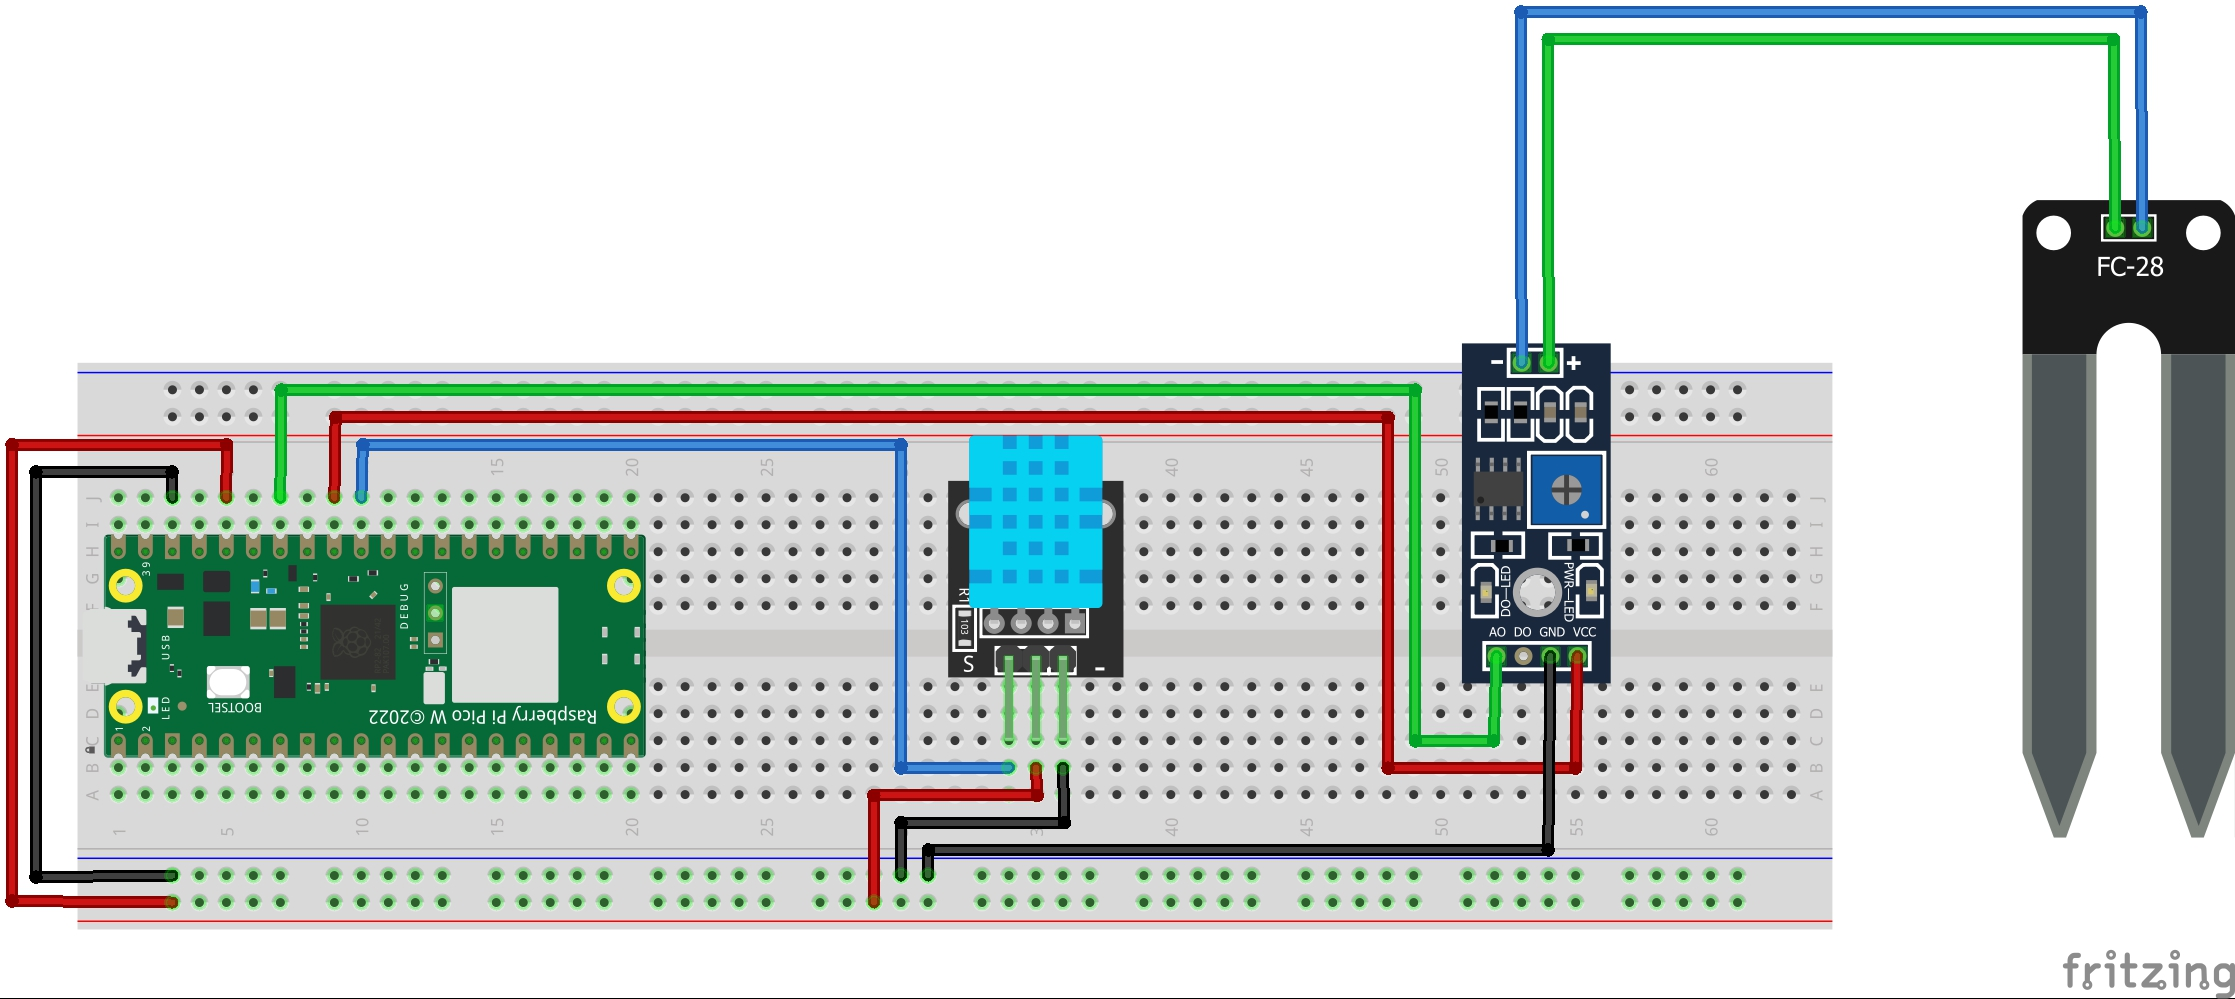
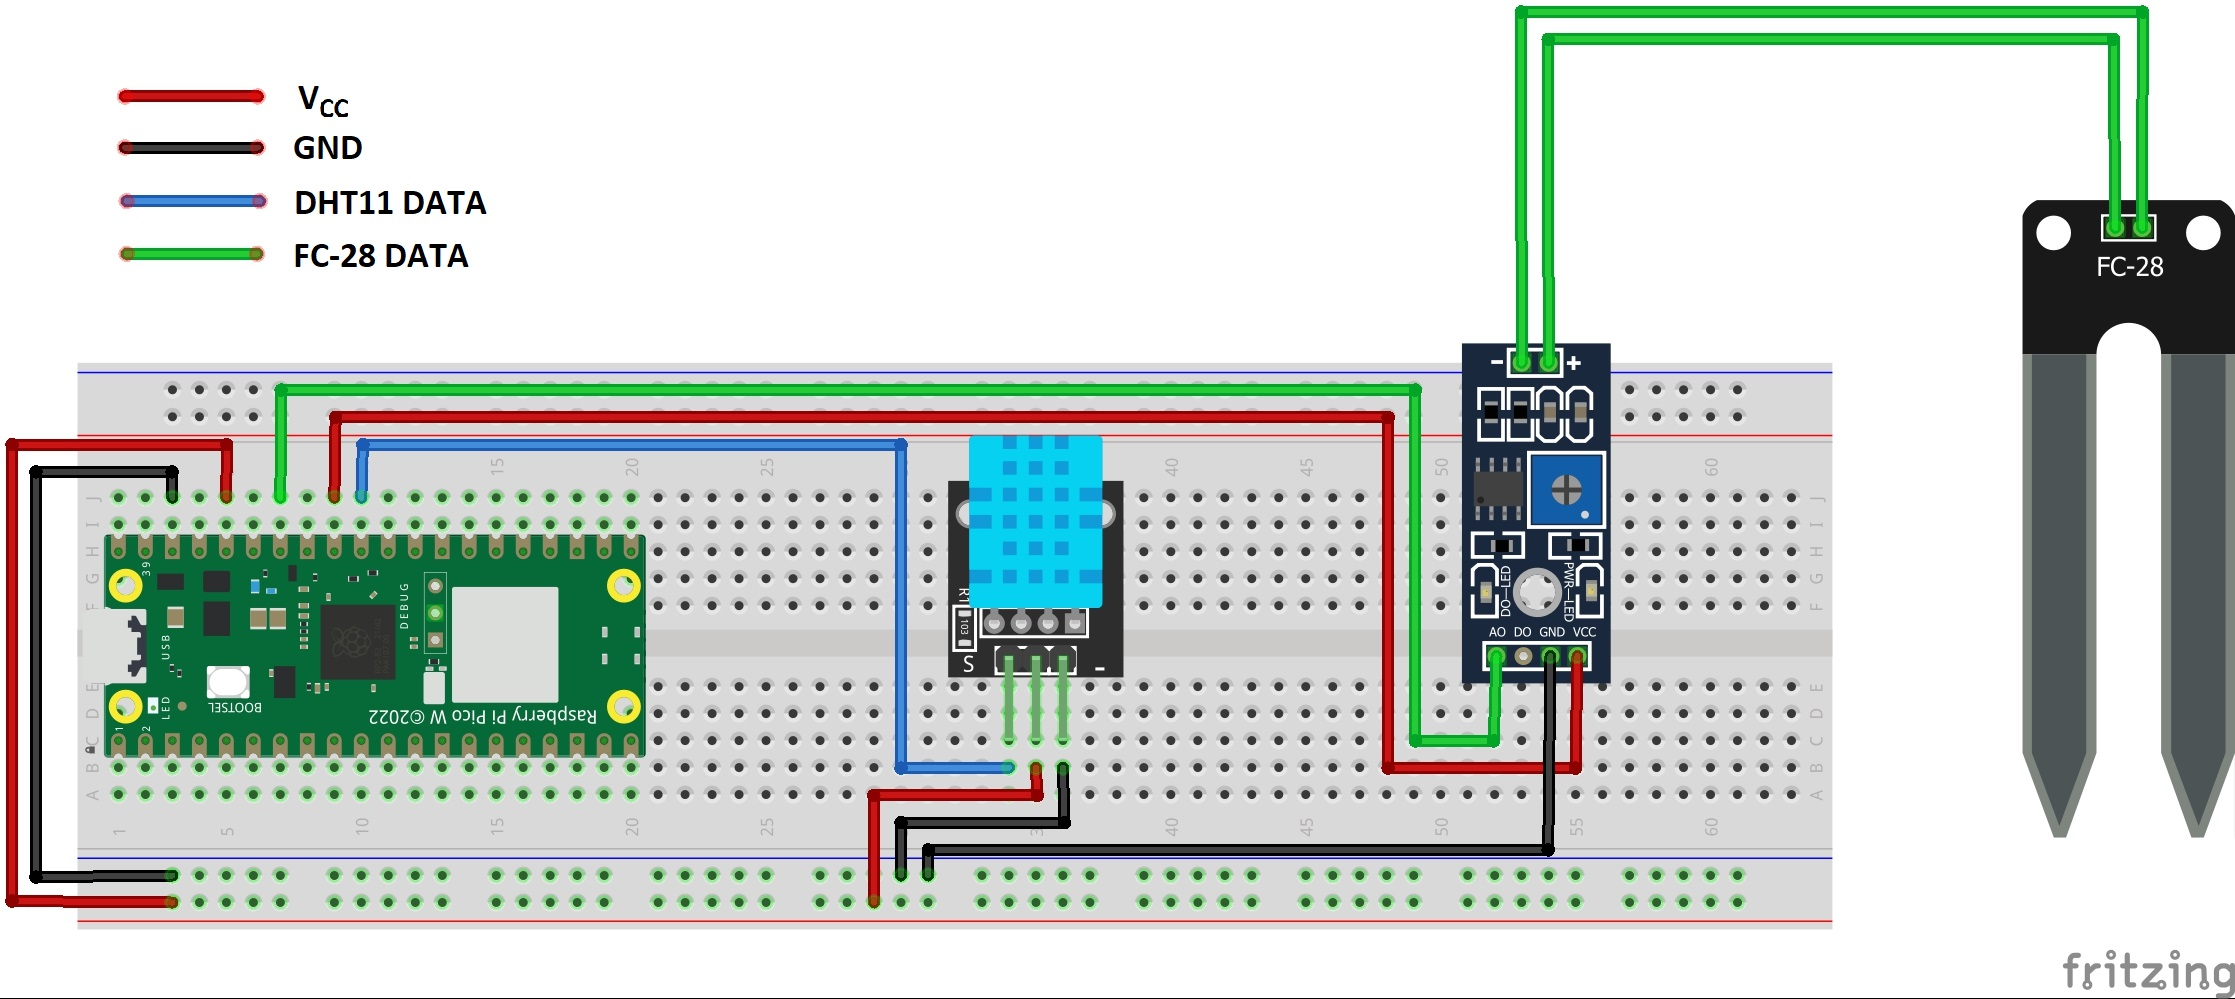
update circuit diagram

diff --git a/README.md b/README.md
@@ -57,7 +57,7 @@ The materials used in this project are shown in Table 1, below. In addition, cos
 | DHT11 Temperature & Humidity Sensor    | 49 SEK  | <a href="https://www.electrokit.com/produkt/digital-temperatur-och-fuktsensor-dht11/">here</a>           | <img src="img/DHT11 Sensor.jpg" width=150>               |
 | FC-28 Soil Moisture Sensor             | 29 SEK  | <a href="https://www.electrokit.com/produkt/jordfuktighetssensor/">here</a>                              | <img src="img/FC-28 Soil Moisture Sensor.jpg" width=150> |
 | Breadboard (a smaller size works fine) | 69 SEK  | <a href="https://www.electrokit.com/produkt/kopplingsdack-840-anslutningar/">here</a>                    | <img src="img/Breadboard.jpg" width=150>                 |
-| Wires                                  | 39 SEK  | <a href="https://www.electrokit.com/produkt/kopplingstrad-byglar-for-kopplingsdack-mjuka-65st/">here</a> | <img src="img/Wires.jpg" width=150>                     |
+| Wires                                  | 39 SEK  | <a href="https://www.electrokit.com/produkt/kopplingstrad-byglar-for-kopplingsdack-mjuka-65st/">here</a> | <img src="img/Wires.jpg" width=150>                      |
 
 </div>
 
@@ -83,7 +83,7 @@ Some comments about the materials used:
 
 The DHT11 Temperature & Humidity Sensor is a cheap but reliable sensor with a digital signal output.
 
-Datasheets recommended voltages V<sub>dd</sub> from 3.3 V to 5 V to be used as power for the DHT11. Measurement specifications are included in Table 2, below.
+Datasheets recommended voltages V<sub>CC</sub> from 3.3 V to 5 V to be used as power for the DHT11. Measurement specifications are included in Table 2, below.
 
 <div align="center">
     <h6>
@@ -200,7 +200,7 @@ In this project, only the parts already accounted for in the materials list is r
 </div>
 
 #### DHT11
-For the DHT11 I chose a voltage of V<sub>dd</sub> = 3.3 V, as recommended by the datasheets, which is supplied by pin 36 (`3V3(OUT)`) on the RP2. The version of the DHT11 I bought includes a 10 k&Omega; pullup resistor, which means no extra resistor will be needed in the circuit.
+For the DHT11 I chose a voltage of V<sub>CC</sub> = 3.3 V, as recommended by the datasheets, which is supplied by pin 36 (`3V3(OUT)`) on the RP2. The version of the DHT11 I bought includes a 10 k&Omega; pullup resistor, which means no extra resistor will be needed in the circuit.
 
 The connection of the DHT11 to the RP2 can be seen in the circuit diagram above. The signal pin on the DHT11 is connected to pin 31 (`GP26`) on the RP2 to take measurements.
 
